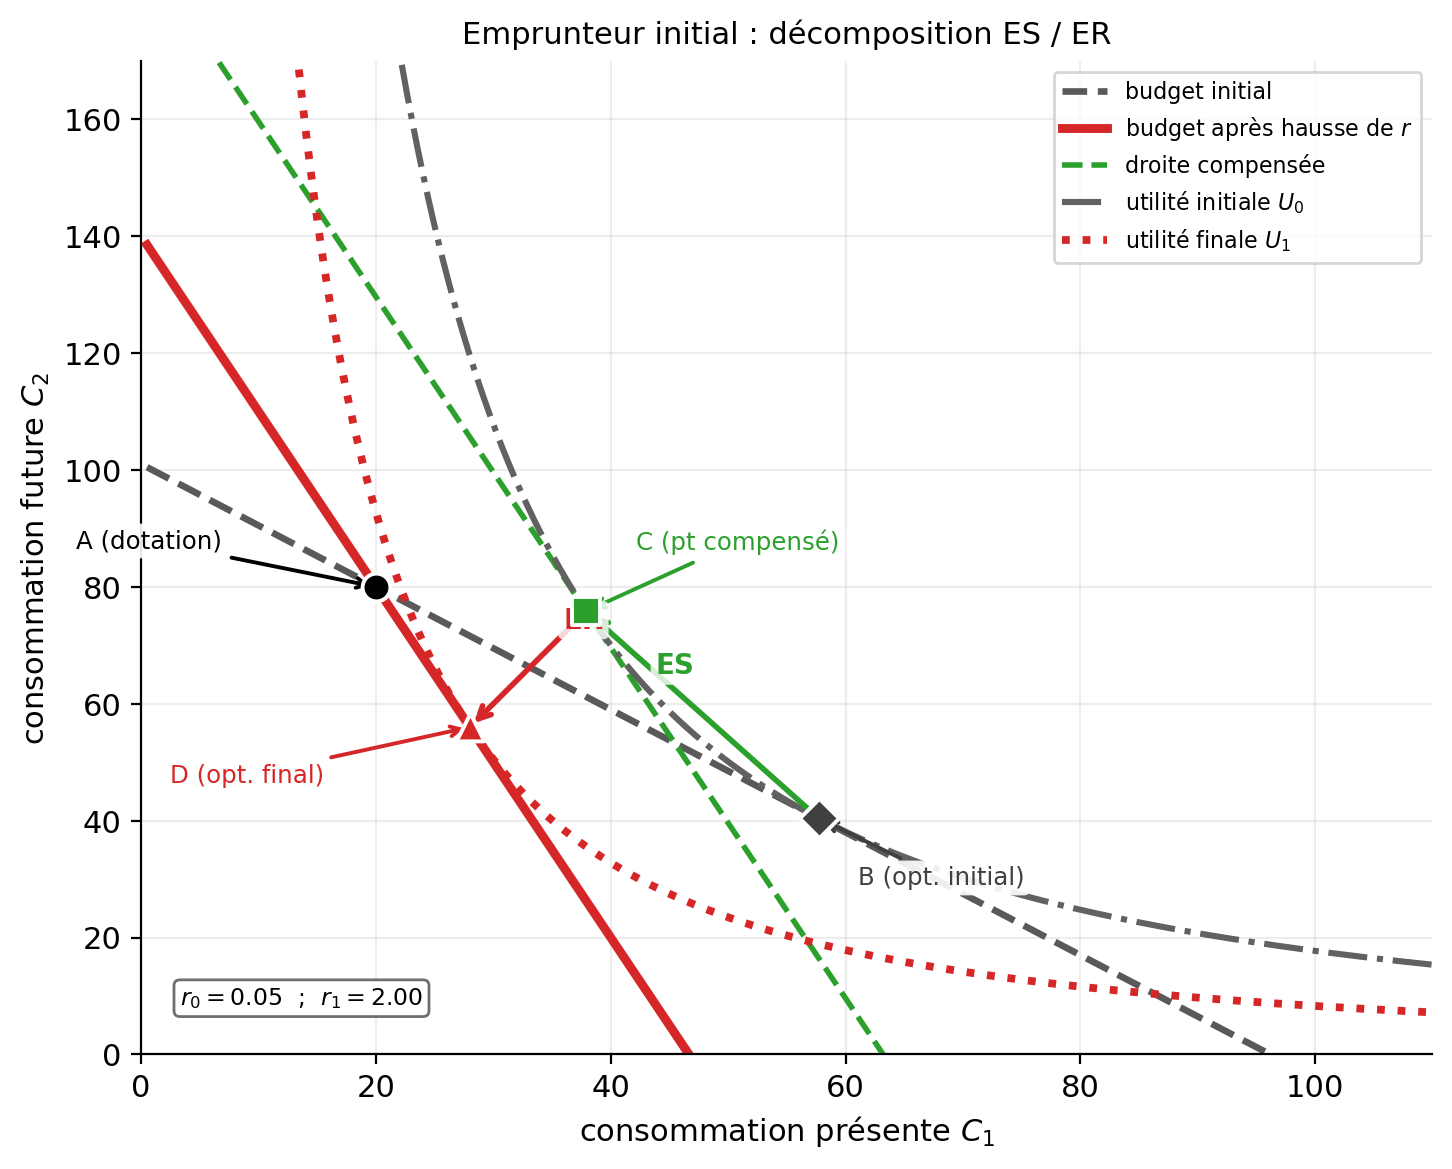
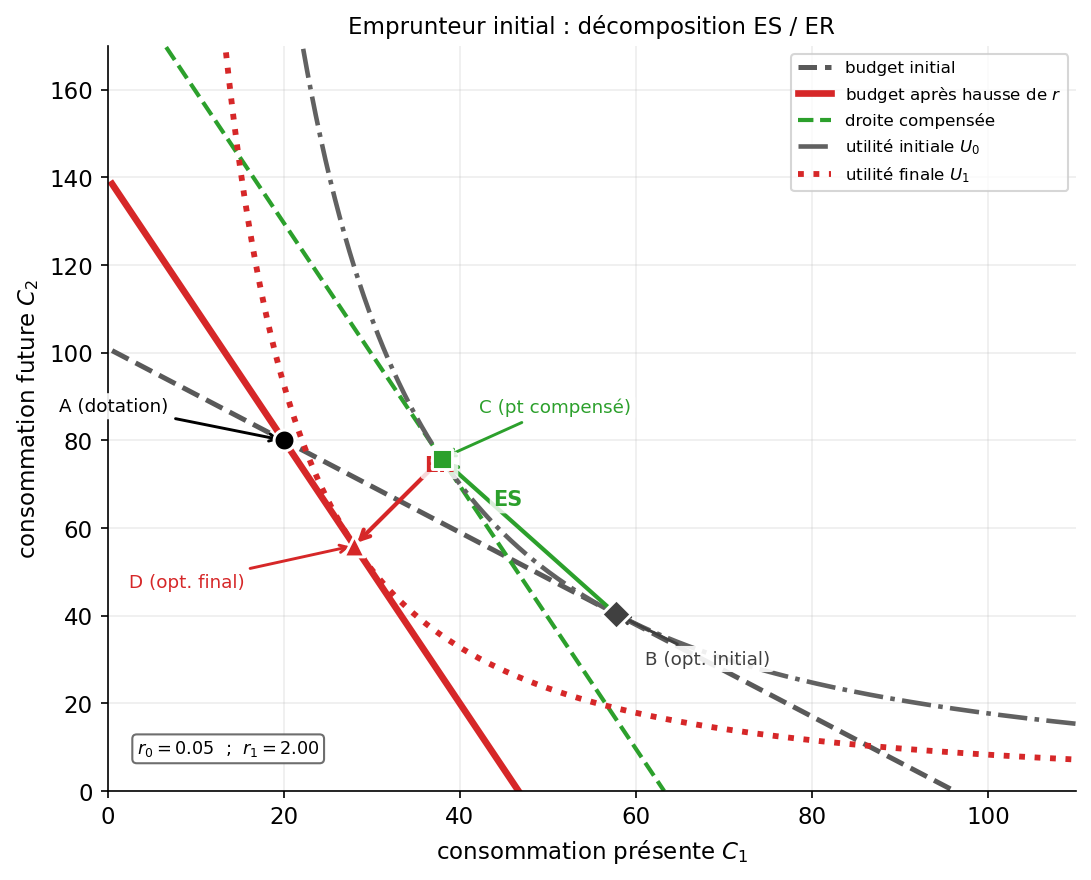
commit'

diff --git a/_site/economics/micro-economics/micro-13-choix-intertemporel.html b/_site/economics/micro-economics/micro-13-choix-intertemporel.html
@@ -677,7 +677,7 @@ C_1 \leq Y_1.
 - épargnant : ES vers moins de <span class="math inline">\(C_1\)</span>, ER partiellement compensateur ;<br>
 - emprunteur : ES vers moins de <span class="math inline">\(C_1\)</span>, ER dans le même sens ;<br>
 - la différence entre les deux vient du fait que la hausse de <span class="math inline">\(r\)</span> valorise la position d’un épargnant mais détériore celle d’un emprunteur.</p>
-<div id="4436d15c" class="cell" data-execution_count="12">
+<div id="4436d15c" class="cell" data-execution_count="14">
 <div class="cell-output cell-output-display">
 <div>
 <figure class="figure">